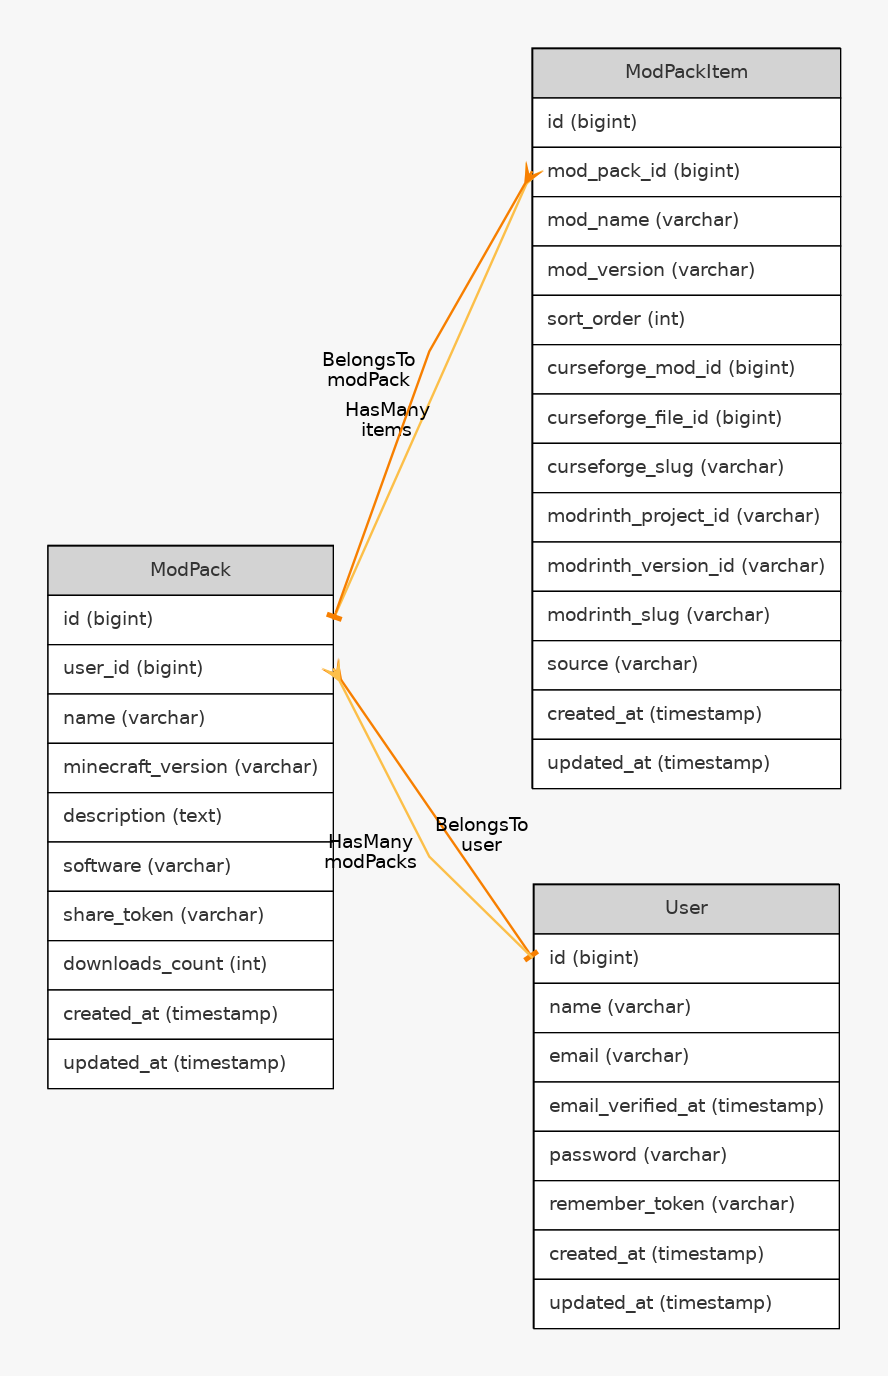
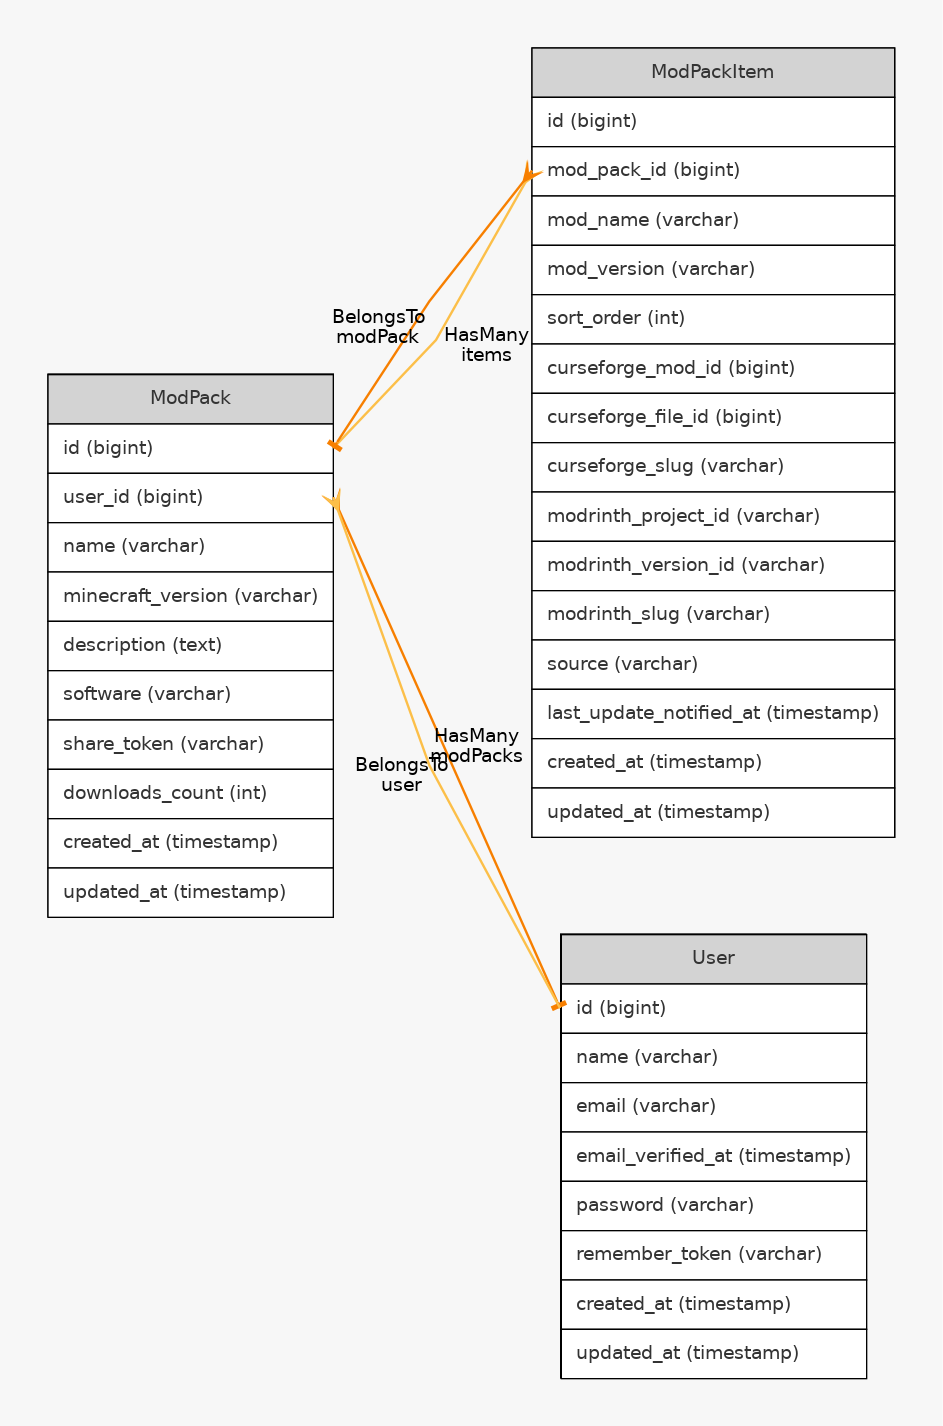
feat(update reminder): added last notified at field to mod pack items

Changed region(s): [[0.0304, 0.0312, 0.973, 0.9688]]

diff --git a/src/database/migrations/2026_01_07_220547_add_last_update_notified_at_to_mod_pack_items_table.php b/src/database/migrations/2026_01_07_220547_add_last_update_notified_at_to_mod_pack_items_table.php
@@ -1,0 +1,28 @@
+<?php
+
+use Illuminate\Database\Migrations\Migration;
+use Illuminate\Database\Schema\Blueprint;
+use Illuminate\Support\Facades\Schema;
+
+return new class extends Migration
+{
+    /**
+     * Run the migrations.
+     */
+    public function up(): void
+    {
+        Schema::table('mod_pack_items', function (Blueprint $table) {
+            $table->timestamp('last_update_notified_at')->nullable()->after('source');
+        });
+    }
+
+    /**
+     * Reverse the migrations.
+     */
+    public function down(): void
+    {
+        Schema::table('mod_pack_items', function (Blueprint $table) {
+            $table->dropColumn('last_update_notified_at');
+        });
+    }
+};

diff --git a/src/app/Models/ModPackItem.php b/src/app/Models/ModPackItem.php
@@ -27,6 +27,7 @@ class ModPackItem extends Model
         'modrinth_version_id',
         'modrinth_slug',
         'source',
+        'last_update_notified_at',
     ];
 
     /**
@@ -35,6 +36,18 @@ class ModPackItem extends Model
      * @var string
      */
     protected $table = 'mod_pack_items';
+
+    /**
+     * The attributes that should be cast.
+     *
+     * @return array<string, string>
+     */
+    protected function casts(): array
+    {
+        return [
+            'last_update_notified_at' => 'datetime',
+        ];
+    }
 
     /**
      * Get the mod pack that owns the item.
